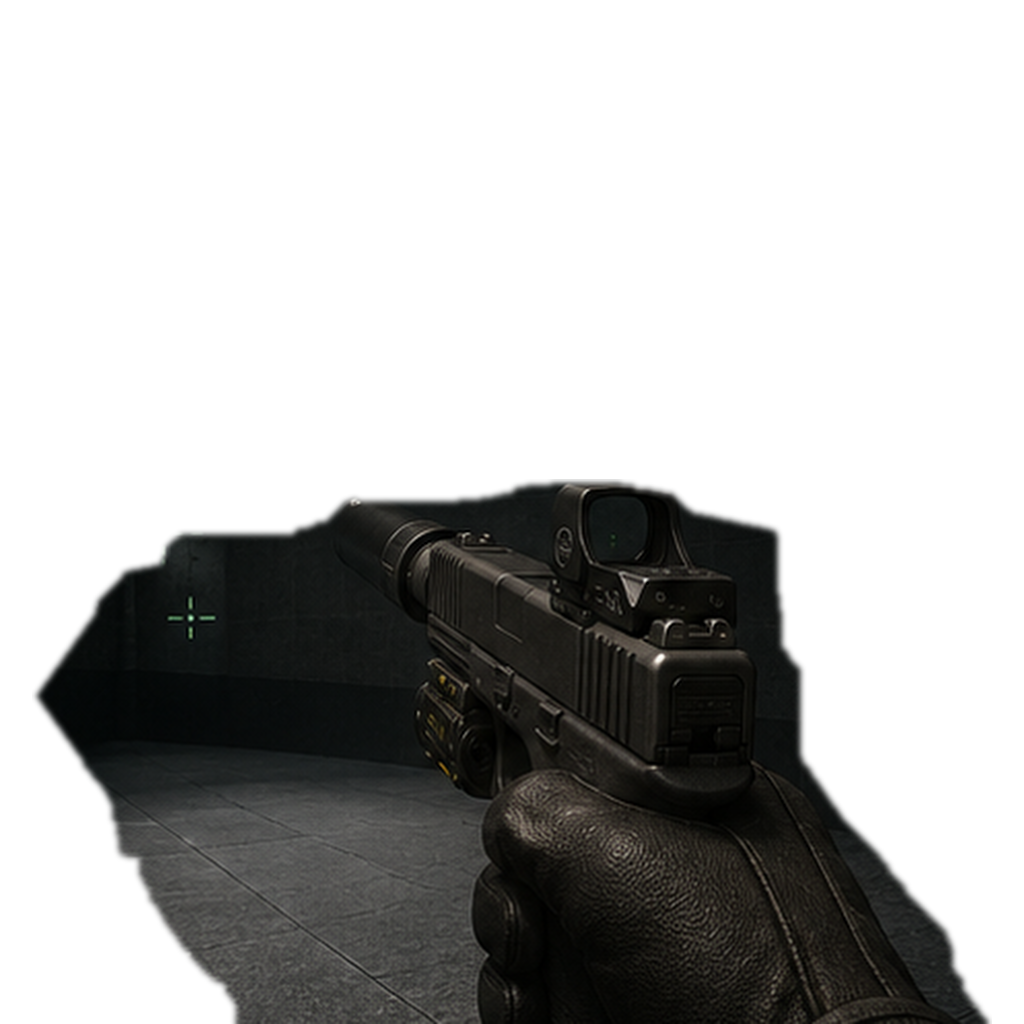
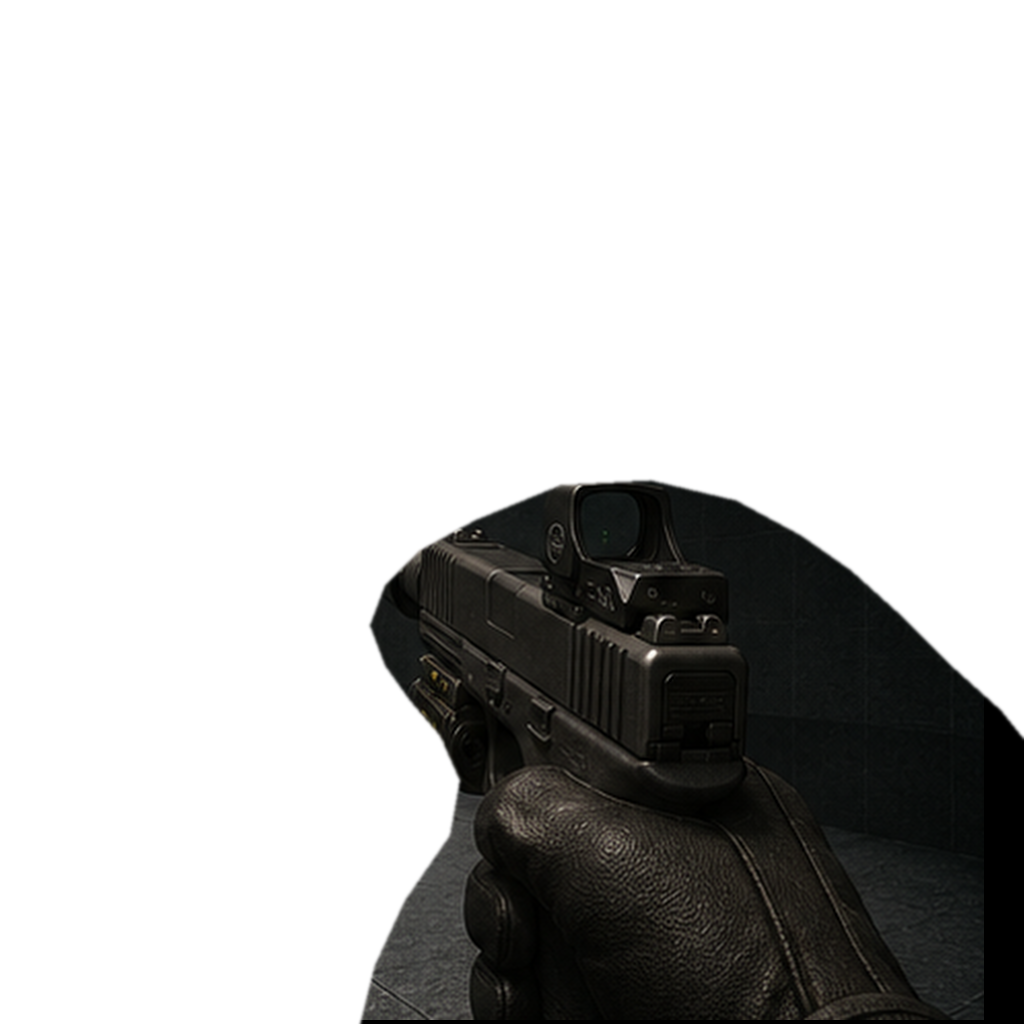
ver1.4

diff --git a/index.html b/index.html
@@ -24,7 +24,7 @@ button{font:inherit;color:#effff3;background:#14271b;border:1px solid #6c9878;pa
 <div id="touch"><div id="move" class="pad"><div class="ring"></div><div class="stick"></div></div><div id="look" class="pad"><div class="ring"></div><div class="stick"></div></div><div id="fire" class="btn">FIRE</div><div id="use" class="btn">USE</div><div id="reload" class="btn">R</div><div id="swap" class="btn">1/2</div><div id="aim" class="btn">AIM</div><div id="pause" class="btn">Ⅱ</div></div>
 <script>
 (()=>{const c=document.getElementById('g'),q=c.getContext('2d'),W=c.width,H=c.height,FOV=Math.PI/3,K={},mv={x:0,y:0},lk={x:0,y:0};q.imageSmoothingEnabled=true;
-const I={};for(const n of ['wall_concrete','wall_steel','wall_red','floor','ceiling','enemy_rifle_0','enemy_rifle_1','enemy_rifle_2','enemy_rifle_dead','enemy_heavy_0','enemy_heavy_1','enemy_heavy_2','enemy_heavy_dead','weapon_rifle_0','weapon_rifle_1','weapon_pistol_0','weapon_pistol_1']){I[n]=new Image();I[n].src='assets/'+n+'.png?v=13'}
+const I={};for(const n of ['wall_concrete','wall_steel','wall_red','floor','ceiling','enemy_rifle_0','enemy_rifle_1','enemy_rifle_2','enemy_rifle_dead','enemy_heavy_0','enemy_heavy_1','enemy_heavy_2','enemy_heavy_dead','weapon_rifle_0','weapon_rifle_1','weapon_pistol_0','weapon_pistol_1']){I[n]=new Image();I[n].src='assets/'+n+'.png?v=14'}
 const M=["111111111111111111","100000000000000001","102222011110222201","100002010000020001","101102010110020101","100002000010000001","101111011010110101","100000010000000001","102220000022020001","100020111002020001","110020100002011101","100000100000000001","102220001111110101","100000000000000001","111111111111111131","100000000000000001","111111111111111111"].map(r=>[...r].map(Number));
 const CAM_Z=.52,PROJ=H*1.22;
 const P={x:1.7,y:1.7,a:0,pitch:0,hp:100,armor:50,key:false,kills:0,bob:0,w:0,ads:0,adsHeld:false,flashlight:true,weapons:[{name:'HK416',clip:30,res:120,size:30,dmg:24,rate:.105,cool:0,rel:0,relMax:1.5},{name:'M9A4',clip:15,res:45,size:15,dmg:34,rate:.24,cool:0,rel:0,relMax:1.1}]};
@@ -80,13 +80,13 @@ function drawGun(w,bob){
  // images but then ignored them and drew the legacy procedural gun over them.
  let hip=I[pistol?'weapon_pistol_0':'weapon_rifle_0'];
  let aim=I[pistol?'weapon_pistol_1':'weapon_rifle_1'];
- let size=pistol?610:760;
- let hipX=W*.5+(pistol?115:145), hipY=H-(pistol?390:470)+bob+recoil+reloadDrop;
- let aimX=W*.5, aimY=H-(pistol?420:500)+recoil+reloadDrop;
+ let size=pistol?500:610;
+ let hipX=W*.5+(pistol?125:170), hipY=H-(pistol?305:365)+bob+recoil+reloadDrop;
+ let aimX=W*.5, aimY=H-(pistol?340:405)+recoil+reloadDrop;
  q.save();
  q.translate(hipX*(1-ads)+aimX*ads,hipY*(1-ads)+aimY*ads);
  q.rotate((pistol?-.025:-.035)*(1-ads)+reloadRot);
- let sc=(pistol?.86:.82)*(1-ads)+(pistol?.94:.90)*ads;
+ let sc=(pistol?.82:.78)*(1-ads)+(pistol?.90:.84)*ads;
  q.scale(sc,sc);
  q.globalAlpha=1-ads;
  q.drawImage(hip,-size/2,-size/2,size,size);
@@ -116,7 +116,7 @@ if(P.ads>.12){let t=Math.min(1,(P.ads-.12)/.58),pistol=P.w===1,rx=W/2,ry=H/2,r=(
  q.strokeStyle=pistol?'rgba(190,255,215,.88)':'rgba(120,145,130,.95)';q.lineWidth=pistol?2:5;q.beginPath();q.arc(rx,ry,r,0,Math.PI*2);q.stroke();
  if(!pistol){q.strokeStyle='rgba(20,30,24,.9)';q.lineWidth=2;q.beginPath();q.arc(rx,ry,r-7,0,Math.PI*2);q.stroke();}
  q.strokeStyle='rgba(185,255,210,.9)';q.lineWidth=1.4;q.beginPath();q.moveTo(rx-r*.55,ry);q.lineTo(rx-r*.18,ry);q.moveTo(rx+r*.18,ry);q.lineTo(rx+r*.55,ry);q.moveTo(rx,ry-r*.55);q.lineTo(rx,ry-r*.18);q.moveTo(rx,ry+r*.18);q.lineTo(rx,ry+r*.55);q.stroke();
- q.fillStyle='rgba(255,70,55,.98)';q.shadowColor='rgba(255,40,30,.9)';q.shadowBlur=8;q.beginPath();q.arc(rx,ry,pistol?2.5:3,0,Math.PI*2);q.fill();q.shadowBlur=0;q.restore()}q.fillStyle='#020705dd';q.fillRect(0,H-46,W,46);q.font='12px monospace';q.textAlign='left';q.fillStyle=P.hp<30?'#ff6868':'#caffd6';q.fillText(`HP ${P.hp|0}`,16,H-20);q.fillStyle='#8fc6dd';q.fillText(`ARM ${P.armor|0}`,91,H-20);q.fillStyle='#eef5f0';q.fillText(`${w.name} ${w.clip}/${w.res}`,177,H-20);q.fillStyle=P.flashlight?'#bfffe2':'#68766d';q.fillText(`LIGHT ${P.flashlight?'ON':'OFF'}`,340,H-20);q.fillStyle=powerOn?'#8ff3a8':'#ffb65c';q.fillText(`POWER ${powerOn?'ONLINE':'OFFLINE'}`,438,H-20);q.textAlign='right';q.fillStyle='#b8d0be';q.fillText(E.some(e=>e.alive)?`SECURE ${P.kills}/${E.length}`:P.key?'REACH EXTRACTION':'FIND KEY',W-16,H-20);q.textAlign='left';q.fillStyle='#9ec5a9';q.fillText('SPECTER // BLACK VEIL  |  BUILD v1.3',15,23);if(!powerOn&&Math.hypot(P.x-POWER_SWITCH.x,P.y-POWER_SWITCH.y)<1.45){q.textAlign='center';q.fillStyle='#ffe7ad';q.fillText('PRESS E — RESTORE FACILITY POWER',W/2,H-67)}if(msgT){q.textAlign='center';q.fillStyle='#effff3';q.fillText(msg,W/2,42)}if(w.rel>0){q.textAlign='center';q.fillStyle='#ffe18e';q.fillText('RELOADING',W/2,H*.68)}if(flash){q.fillStyle=`rgba(180,0,0,${flash*1.8})`;q.fillRect(-8,-8,W+16,H+16)}
+ q.fillStyle='rgba(255,70,55,.98)';q.shadowColor='rgba(255,40,30,.9)';q.shadowBlur=8;q.beginPath();q.arc(rx,ry,pistol?2.5:3,0,Math.PI*2);q.fill();q.shadowBlur=0;q.restore()}q.fillStyle='#020705dd';q.fillRect(0,H-46,W,46);q.font='12px monospace';q.textAlign='left';q.fillStyle=P.hp<30?'#ff6868':'#caffd6';q.fillText(`HP ${P.hp|0}`,16,H-20);q.fillStyle='#8fc6dd';q.fillText(`ARM ${P.armor|0}`,91,H-20);q.fillStyle='#eef5f0';q.fillText(`${w.name} ${w.clip}/${w.res}`,177,H-20);q.fillStyle=P.flashlight?'#bfffe2':'#68766d';q.fillText(`LIGHT ${P.flashlight?'ON':'OFF'}`,340,H-20);q.fillStyle=powerOn?'#8ff3a8':'#ffb65c';q.fillText(`POWER ${powerOn?'ONLINE':'OFFLINE'}`,438,H-20);q.textAlign='right';q.fillStyle='#b8d0be';q.fillText(E.some(e=>e.alive)?`SECURE ${P.kills}/${E.length}`:P.key?'REACH EXTRACTION':'FIND KEY',W-16,H-20);q.textAlign='left';q.fillStyle='#9ec5a9';q.fillText('SPECTER // BLACK VEIL  |  BUILD v1.4',15,23);if(!powerOn&&Math.hypot(P.x-POWER_SWITCH.x,P.y-POWER_SWITCH.y)<1.45){q.textAlign='center';q.fillStyle='#ffe7ad';q.fillText('PRESS E — RESTORE FACILITY POWER',W/2,H-67)}if(msgT){q.textAlign='center';q.fillStyle='#effff3';q.fillText(msg,W/2,42)}if(w.rel>0){q.textAlign='center';q.fillStyle='#ffe18e';q.fillText('RELOADING',W/2,H*.68)}if(flash){q.fillStyle=`rgba(180,0,0,${flash*1.8})`;q.fillRect(-8,-8,W+16,H+16)}
 let vg=q.createRadialGradient(W/2,H*.52,H*.12,W/2,H*.52,W*.66);vg.addColorStop(0,'rgba(0,0,0,0)');vg.addColorStop(.72,'rgba(0,0,0,.08)');vg.addColorStop(1,'rgba(0,0,0,.58)');q.fillStyle=vg;q.fillRect(-8,-8,W+16,H+16);q.fillStyle='rgba(120,150,125,.035)';for(let y=0;y<H;y+=4)q.fillRect(0,y,W,1);
 if(pause||dead||win){q.fillStyle='#000c';q.fillRect(-8,-8,W+16,H+16);q.textAlign='center';q.font='28px monospace';q.fillStyle=win?'#caffd6':dead?'#ff7474':'#d8ffe3';q.fillText(win?'MISSION COMPLETE':dead?'SPECTER DOWN':'PAUSED',W/2,H/2)}q.restore()}
 function loop(t){let dt=Math.min(.04,(t-last)/1000||0);last=t;update(dt);render();requestAnimationFrame(loop)}function begin(){reset();run=true;document.getElementById('menu').classList.add('hidden');initAudio();audio.resume?.()}

diff --git a/service-worker.js b/service-worker.js
@@ -1,4 +1,4 @@
-const CACHE='specter-v1.3-rendered-weapons';
+const CACHE='specter-v1.4-transparent-weapon-fix';
 const FILES=["./README.md", "./assets/ceiling.png", "./assets/enemy_heavy_0.png", "./assets/enemy_heavy_1.png", "./assets/enemy_heavy_2.png", "./assets/enemy_heavy_dead.png", "./assets/enemy_rifle_0.png", "./assets/enemy_rifle_1.png", "./assets/enemy_rifle_2.png", "./assets/enemy_rifle_dead.png", "./assets/floor.png", "./assets/icon-192.png", "./assets/icon-512.png", "./assets/specter_equipment.jpg", "./assets/specter_portrait.jpg", "./assets/specter_turnaround.jpg", "./assets/wall_concrete.png", "./assets/wall_red.png", "./assets/wall_steel.png", "./assets/weapon_pistol_0.png", "./assets/weapon_pistol_1.png", "./assets/weapon_rifle_0.png", "./assets/weapon_rifle_1.png", "./index.html", "./manifest.webmanifest"];
 self.addEventListener('install',e=>{self.skipWaiting();e.waitUntil(caches.open(CACHE).then(c=>c.addAll(FILES)))});
 self.addEventListener('activate',e=>e.waitUntil(caches.keys().then(keys=>Promise.all(keys.filter(k=>k!==CACHE).map(k=>caches.delete(k)))).then(()=>self.clients.claim())));

diff --git a/README.md b/README.md
@@ -1,24 +1,17 @@
-# SPECTER: Blacksite v1.3 — Rendered Weapon Overhaul
+# SPECTER: Blacksite v1.4 — Transparent Weapon Sprite Fix
 
-This build removes the simple geometric weapon placeholders and replaces them with rendered first-person weapon sprites.
+This build corrects the large rectangular weapon-image problem from v1.3.
 
-## New in v1.3
+## Fixed in v1.4
 
-- Rendered tactical HK416-style rifle in hip-fire view
-- Separate centered ADS rifle view with visible optic reticle
-- Rendered suppressed tactical pistol
-- Separate pistol firing frame with muzzle flash
-- Larger, repositioned first-person weapon presentation
-- Cache-busted weapon assets so GitHub Pages downloads the new files
-- On-screen build label updated to `BUILD v1.3`
-
-## Preserved
-
-- VOLK rifleman and heavy enemy sprites
-- Facility power switch
-- Flashlight, ADS, reload, vertical aim, and accurate impacts
-- Desktop and mobile controls
+- Removed the full rectangular backgrounds around the rifle and pistol sprites
+- Added transparent alpha around all four weapon frames
+- Reduced first-person weapon scale so the rifle no longer covers most of the screen
+- Repositioned hip-fire and ADS views lower and farther right
+- Preserved the VOLK enemies, power switch, flashlight, ADS, reload, vertical aim, and mobile controls
+- Added the in-game `BUILD v1.4` marker
+- Updated asset cache-busting and the service-worker cache name
 
 ## Install
 
-Extract the ZIP and replace every file in the root of your GitHub Pages repository, including the complete `assets` folder. Wait for the Pages deployment to finish, then reload the game. If an older build remains visible, clear the site's browser data or open the page in a private tab once.
+Replace every file in the GitHub Pages repository, including the entire `assets` folder. Wait for the Pages deployment to finish, then reload the game. A private window may be useful if an older service worker is still active.
